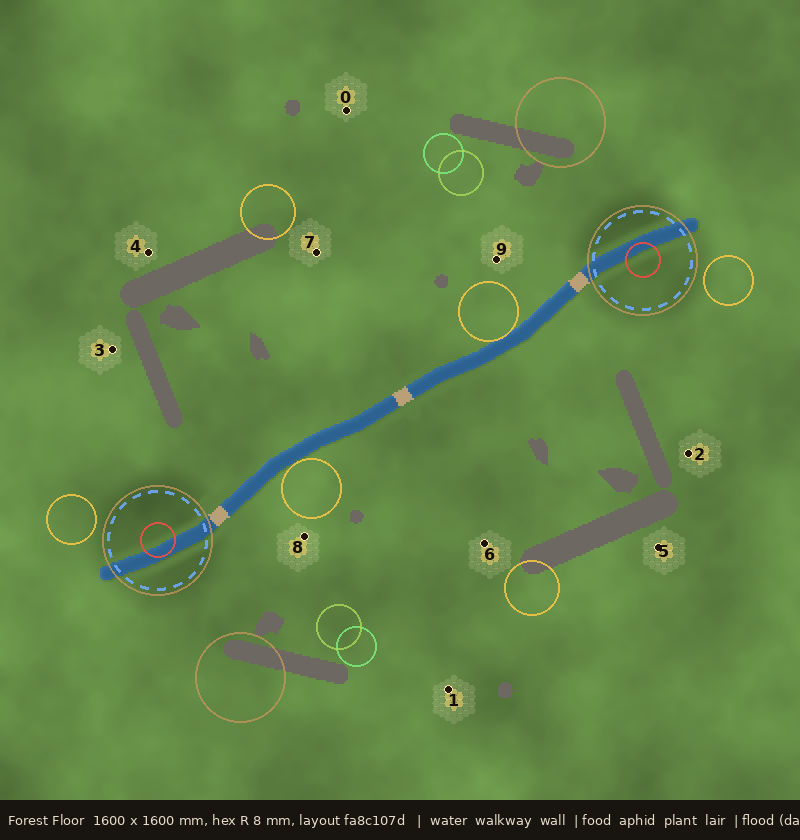
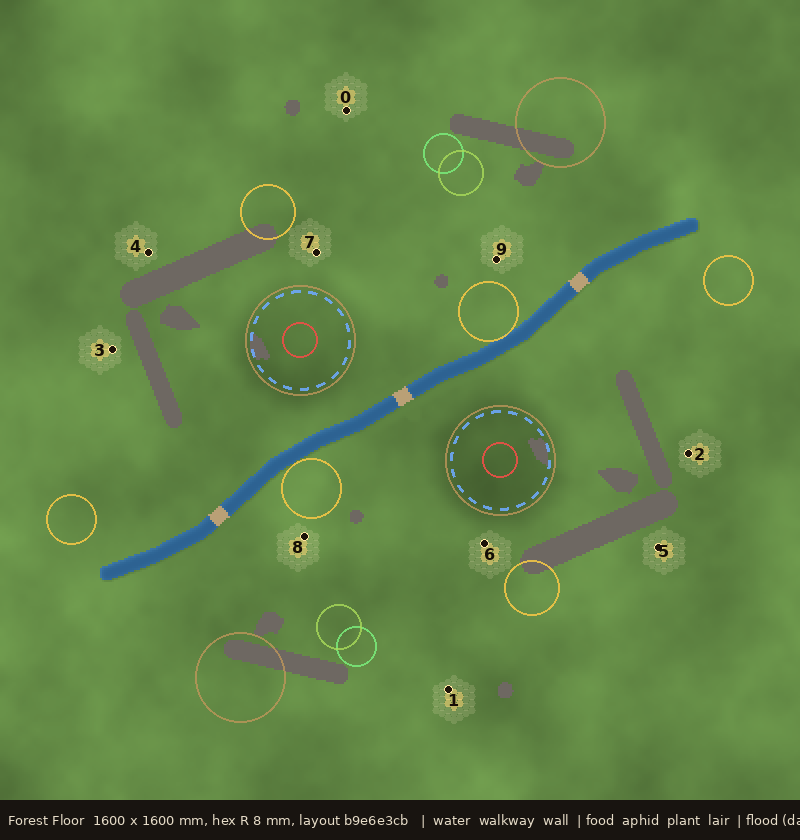
Maps: Forest Floor hollows moved off the stream; registered (not yet playable)
The two leaf-litter hollows (spider and beetle lairs, flood zones) now sit mid-map either side
of the stream; validator clean. In MAPS for the tools, not in PLAYABLE_MAPS until its art pass.

Claude-Session: https://claude.ai/code/session_01MHhvayxRSszQFax75UpbXx

diff --git a/src/maps/forestFloor.ts b/src/maps/forestFloor.ts
@@ -6,9 +6,6 @@ import type { MapDef } from './types';
  * chokepoints; mushroom clusters; leaf-litter hollows hold spider and beetle lairs and flood after
  * rain. Ten sites in point-symmetric pairs.
  *
- * DRAFT (not in MAPS yet): generated by tools/mapgen/forest_floor.py; the hollows still sit on the
- * stream ends and move before the art pass.
- *
  * Coordinates were computed once (point-symmetric about the centre) and are stored as plain numbers,
  * so every client builds byte-identical terrain.
  */
@@ -24,8 +21,8 @@ export const FOREST_FLOOR: MapDef = {
   relief: { amp: 7, scale: 200 },
   brushes: [
     // two leaf-litter hollows
-    { shape: { circle: [315, 1080], r: 90 }, amount: -6, falloff: 70 },
-    { shape: { circle: [1285, 520], r: 90 }, amount: -6, falloff: 70 },
+    { shape: { circle: [1000, 920], r: 90 }, amount: -6, falloff: 70 },
+    { shape: { circle: [600, 680], r: 90 }, amount: -6, falloff: 70 },
   ],
   water: [
     { kind: 'stream', shape: { path: [
@@ -122,10 +119,10 @@ export const FOREST_FLOOR: MapDef = {
     { kind: 'aphid', shape: { circle: [886.8, 307.6], r: 40 }, name: 'seedlings' },
     { kind: 'plant', shape: { circle: [921.6, 346], r: 45 } },
     { kind: 'plant', shape: { circle: [678.4, 1254], r: 45 } },
-    { kind: 'lair', shape: { circle: [315, 1080], r: 35 }, name: 'spider hollow' },
-    { kind: 'lair', shape: { circle: [1285, 520], r: 35 }, name: 'beetle hollow' },
-    { kind: 'litter', shape: { circle: [315, 1080], r: 110 } },
-    { kind: 'litter', shape: { circle: [1285, 520], r: 110 } },
+    { kind: 'lair', shape: { circle: [1000, 920], r: 35 }, name: 'spider hollow' },
+    { kind: 'lair', shape: { circle: [600, 680], r: 35 }, name: 'beetle hollow' },
+    { kind: 'litter', shape: { circle: [1000, 920], r: 110 } },
+    { kind: 'litter', shape: { circle: [600, 680], r: 110 } },
     { kind: 'litter', shape: { circle: [1120, 245.7], r: 90 } },
     { kind: 'litter', shape: { circle: [480, 1354.3], r: 90 } },
     // wild creatures come out of the undergrowth along the edges
@@ -144,7 +141,7 @@ export const FOREST_FLOOR: MapDef = {
   ],
   floods: [
     // rain fills the two hollows
-    { shape: { circle: [315, 1080], r: 100 }, level: -3.5, first: [420, 660], every: [540, 900], hold: [40, 80] },
-    { shape: { circle: [1285, 520], r: 100 }, level: -3.5, first: [420, 660], every: [540, 900], hold: [40, 80] },
+    { shape: { circle: [1000, 920], r: 100 }, level: -3.5, first: [420, 660], every: [540, 900], hold: [40, 80] },
+    { shape: { circle: [600, 680], r: 100 }, level: -3.5, first: [420, 660], every: [540, 900], hold: [40, 80] },
   ],
 };

diff --git a/src/maps/index.ts b/src/maps/index.ts
@@ -1,6 +1,7 @@
 import type { MapDef, MapId } from './types';
 import { TEST_POND } from './testPond';
 import { MEADOW_POND } from './meadowPond';
+import { FOREST_FLOOR } from './forestFloor';
 
 export type { MapDef, MapId } from './types';
 
@@ -8,6 +9,8 @@ export type { MapDef, MapId } from './types';
 export const MAPS: Partial<Record<MapId, MapDef>> = {
   testPond: TEST_POND,
   meadowPond: MEADOW_POND,
+  // a draft: validated, not yet offered in the menus (PLAYABLE_MAPS)
+  forestFloor: FOREST_FLOOR,
 };
 
 /** The maps offered in menus and the lobby, in order. */

diff --git a/tools/mapgen/forest_floor.py b/tools/mapgen/forest_floor.py
@@ -1,5 +1,3 @@
-# Draft, not yet registered in src/maps/index.ts: the two hollows (lairs, flood zones) sit on the
-# stream's ends; move them clear of the water before the art pass.
 """Forest Floor (docs/maps/design.md §9): 1,600 x 1,600 mm, point-symmetric about the centre.
 A small trickling stream in an S across the middle third, three root-mat crossings; fallen logs and
 rocks forming lanes and chokepoints; mushroom clusters; two leaf-litter hollows (spider and beetle
@@ -60,7 +58,7 @@ sites_at = outer + inner
 def ent(s):
     dx, dy = C - s[0], C - s[1]; l = math.hypot(dx, dy); return P(s[0] + dx / l * 22, s[1] + dy / l * 22)
 
-hollowA = polar(150, 560)
+hollowA = P(1000, 920)
 hollowB = rot(hollowA)
 d = dict(
     const='FOREST_FLOOR', id='forestFloor', name='Forest Floor',

diff --git a/tools/mapgen/README.md b/tools/mapgen/README.md
@@ -6,7 +6,7 @@ client builds byte-identical terrain without running any of this.
 
 - `tsemit.py`: writes a `MapDef` TypeScript file from a Python dict.
 - `meadow_pond.py`: Meadow Pond's shapes as JSON (the map file was written from it).
-- `forest_floor.py`: Forest Floor, a draft: `python3 tools/mapgen/forest_floor.py src/maps/forestFloor.ts`.
+- `forest_floor.py`: Forest Floor (registered in `MAPS`, not yet in `PLAYABLE_MAPS`): `python3 tools/mapgen/forest_floor.py src/maps/forestFloor.ts`.
 
 After regenerating: `npx vite-node tools/validate-maps.ts -- <id>`, then
 `npx vite-node tools/map-dump.ts -- <id> /tmp/m.json && python3 tools/map-sketch.py /tmp/m.json docs/maps/sketches/<id>.png`.
